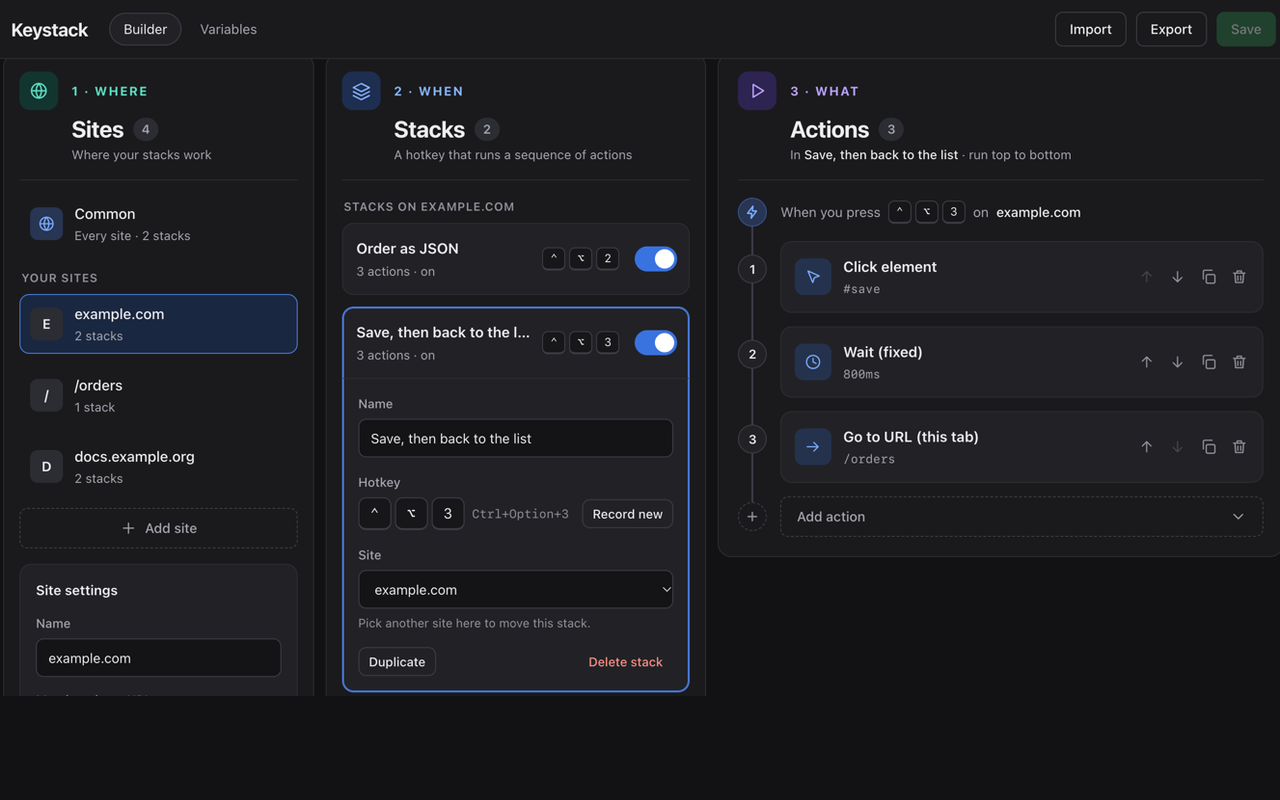
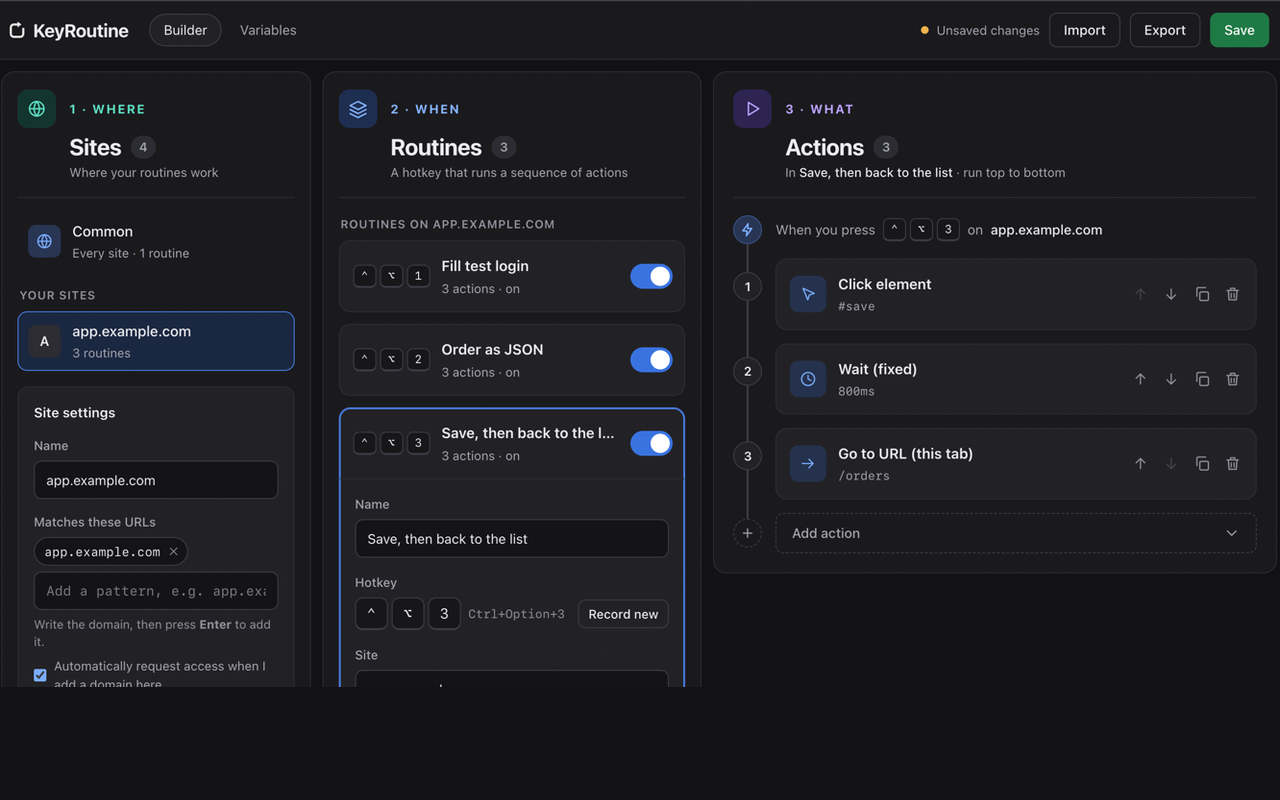
docs: re-shoot the primary builder screenshot under the KeyRoutine name
listing-1-builder-1280x800.png still said "Keystack"/"Stacks" from before
the rename. Re-shot against the fixed docs/screenshot-config.json (the
"Fill test login" routine is now correctly site-scoped), scaled and
padded to 1280x800, 24-bit, no alpha per the Store's requirements. Kept
the unpadded source for future re-cuts. listing-2 still needs the same
treatment.

diff --git a/docs/release-roadmap.md b/docs/release-roadmap.md
@@ -46,12 +46,15 @@ is missing is screenshots, Dashboard forms, and one real functionality gap
       `docs/privacy-policy/index.html`. Pasted into `docs/store-listing.md`.
       **Still needs a human:** paste it into the Developer Dashboard's own
       Privacy policy field — that part has no API this session can reach.
-- [ ] **Retake every screenshot.** All of them show the old name: the
-      header reads "Keystack" and the middle column "Stacks". The framing
-      and the demo config are still right, so it is a re-shoot, not a
-      redesign — `listing-1-builder-1280x800.png` and
-      `listing-2-site-only-fetch-1280x800.png` are the two to reproduce.
-      Still missing besides those: the action menu in a full window (the one
+- [x] ~~Retake `listing-1-builder-1280x800.png`.~~ Done — re-shot with the
+      fixed `docs/screenshot-config.json`, scaled and padded to 1280×800,
+      24-bit, no alpha. Shows all three columns, "Fill test login" now
+      correctly site-scoped, and the click → wait → navigate pipeline open.
+- [ ] **Retake `listing-2-site-only-fetch-1280x800.png`.** Still shows the
+      old name ("Keystack"/"Stacks"). Same framing as before — a fetch
+      routine open, showing the Site field rule that it cannot move to
+      Common — just re-shot under the new name and the fixed demo config.
+      Still missing besides that: the action menu in a full window (the one
       taken is 589×668 and the Store takes only 1280×800 or 640×400), and
       one frame of a popup firing on a real page.
       *Done when:* every uploaded file says KeyRoutine and is 1280×800,

diff --git a/docs/store-listing.md b/docs/store-listing.md
@@ -107,9 +107,9 @@ any of them. The Store wants 1280×800 or 640×400, 24-bit PNG with no alpha.
 
 | File | Shows | Status |
 |---|---|---|
-| `screenshots/listing-1-builder-1280x800.png` | **Stale — taken before the rename, says Keystack/Stacks.** The primary frame: all three columns, sites with `/orders` nested under its host, the open routine with its hotkey, and a click → wait → navigate pipeline on the right. Saved draft, nothing in an error state | re-shoot |
-| `screenshots/listing-2-site-only-fetch-1280x800.png` | **Stale — same reason.** The same builder with a fetch routine open, showing the rule in the Site field: a routine holding Fetch URL cannot move to Common | re-shoot |
-| `screenshots/*-original.png` | The unpadded sources (1327×722, 1340×713, 589×668) — kept to re-cut from, never for upload | source |
+| `screenshots/listing-1-builder-1280x800.png` | Re-shot. The primary frame: all three columns, "Fill test login" now correctly site-scoped, "Order as JSON" and the open "Save, then back to the list" with its click → wait → navigate pipeline on the right. Saved draft, nothing in an error state | ready |
+| `screenshots/listing-2-site-only-fetch-1280x800.png` | **Stale — taken before the rename, says Keystack/Stacks.** The same builder with a fetch routine open, showing the rule in the Site field: a routine holding Fetch URL cannot move to Common | re-shoot |
+| `screenshots/*-original.png` | The unpadded sources, kept to re-cut from, never for upload | source |
 
 Still worth shooting:
 
